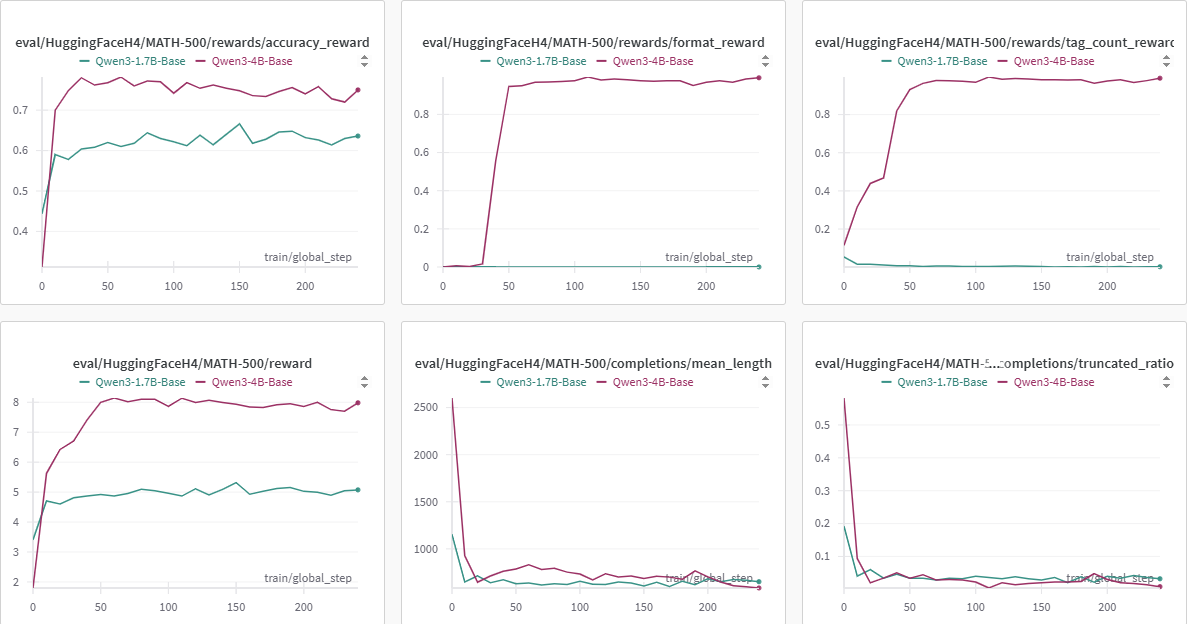
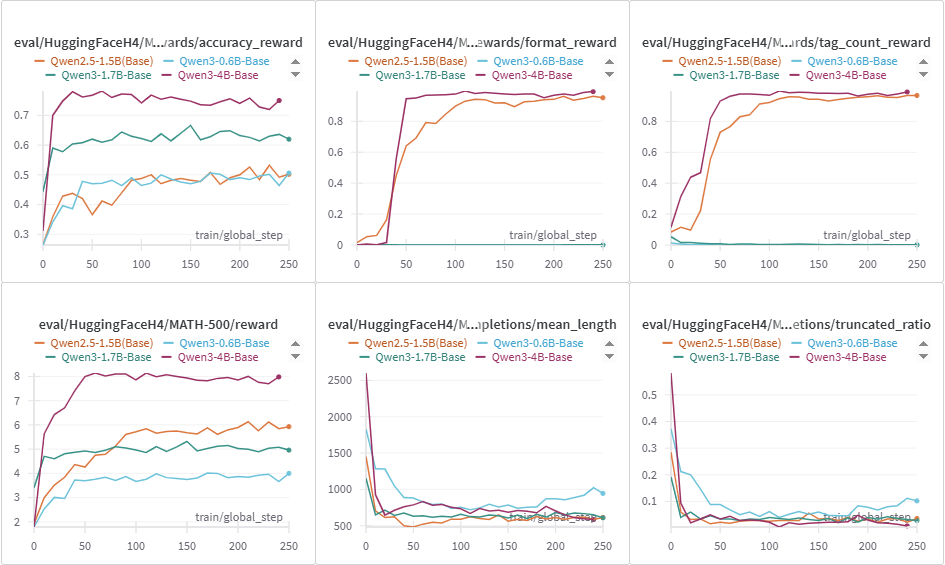
minor updates

diff --git a/README.md b/README.md
@@ -1,7 +1,7 @@
-<h1 align="center"> simpleR1: A simple framework for training R1-like models</h1>
+<h1 align="center"> simpleR1: A simple framework for training R1-like reasoning models</h1>
 
 
-**simpleR1** is a simple framework for training R1-like models, aiming to improve llm's reasoning abilities in math and code. 
+**simpleR1** is a simple framework for training R1-like reasoning models, aiming to improve llm's reasoning abilities. 
 This repository builds upon Hugging Face's TRL GRPO Trainer and the [open-r1](https://github.com/huggingface/open-r1) project, with a focus on ease of use and enhanced training features. 
 
 
@@ -71,9 +71,11 @@ The latest version includes an upgraded GRPO Trainer with a custom evaluate func
 ## 📚 Examples
 
 
-We trained `Qwen/Qwen3-1.7B-Base` and `Qwen/Qwen3-4B-Base` models on [MATH-benchmark](https://huggingface.co/datasets/nlile/hendrycks-MATH-benchmark), with real-time evaluation on [MATH-500](https://huggingface.co/datasets/HuggingFaceH4/MATH-500) using the `evaluate` function.
+We trained `Qwen/Qwen2.5-1.5B` (base model), `Qwen/Qwen3-0.6B-Base`, `Qwen/Qwen3-1.7B-Base`,`Qwen/Qwen3-4B-Base` models on [MATH-benchmark](https://huggingface.co/datasets/nlile/hendrycks-MATH-benchmark), with real-time evaluation on [MATH-500](https://huggingface.co/datasets/HuggingFaceH4/MATH-500) using the `evaluate` function.
 
-Below is the wandb log on evaluation dataset:
+Below is the wandb log on the evaluation dataset:
+> In the log below, we simply set `num_eval_generations=1` (one completion for each problem in the eval dataset), and `num_eval_generations=k` would yield `average@k`/`avg@k` metrics.
+For other metrics, such as `pass@k`, please consider to change the logic in the `evaluate` function.
 
 <p align="center">
   <img src="imgs/wandb_log-qwen3.png" width="800" />
@@ -214,9 +216,6 @@ cd simpleR1
     > Or override additional parameters via command line. 
     > For example,
     > ```bash
-    > model_name_or_path=Qwen/Qwen2.5-1.5B
-    > train_dataset=nlile/hendrycks-MATH-benchmark
-    > eval_dataset=HuggingFaceH4/MATH-500
     > # export HF_HOME=/xxx/xxx/.cache/huggingface
     > export CUDA_VISIBLE_DEVICES=0
     > accelerate launch \
@@ -228,9 +227,9 @@ cd simpleR1
     >     --config configs/grpo_config.yaml \
     >     --output_dir $OUTPUT_DIR \
     >     --check_gpu_idle True \
-    >     --model_name_or_path $model_name_or_path \
-    >     --train_dataset_name $train_dataset \
-    >     --eval_dataset_name $eval_dataset \
+    >     --model_name_or_path Qwen/Qwen2.5-1.5B \
+    >     --train_dataset_name nlile/hendrycks-MATH-benchmark \
+    >     --eval_dataset_name HuggingFaceH4/MATH-500 \
     >     --use_vllm True \
     >     --vllm_mode colocate \
     >     --vllm_gpu_memory_utilization 0.2 \
@@ -239,12 +238,13 @@ cd simpleR1
     >     --num_eval_generations 1 \
     >     --per_device_train_batch_size 7 \
     >     --per_device_eval_batch_size 64 \
+    >     --dynamic_sampling True \
     >     --max_resample_attempts 3 \
-    >     --gradient_accumulation_steps 3 \
+    >     --gradient_accumulation_steps 1 \
     >     --num_iterations 3 \
     >     --torch_empty_cache_steps 1 \
-    >     --max_num_train_samples 2000 \
-    >     --max_num_test_samples -1 \
+    >     --num_train_samples_per_dataset 2000 \
+    >     --num_test_samples_per_dataset -1 \
     >     --max_completion_length 2048 \
     >     --max_eval_completion_length 4096 \
     >     --reward_funcs accuracy format tag \
@@ -258,8 +258,8 @@ cd simpleR1
     >     --top_p 0.95 \
     >     --eval_temperature 0.7 \
     >     --eval_top_p 0.95 \
-    >     --beta 0.0001 \
-    >     --compute_kl True \
+    >     --beta 1e-5 \
+    >     --repetition_penalty 1.02 \
     >     --lr_scheduler_type constant \
     >     --learning_rate 3e-6 \
     >     --save_strategy steps \
@@ -268,7 +268,7 @@ cd simpleR1
     >     --eval_steps 10 \
     >     --eval_on_start True \
     >     --log_level info \
-    >     --wandb_project simpleR1-$(basename $train_dataset) \
+    >     --wandb_project simpleR1-train \
     >     --run_name $model_name_or_path \
     >     2>&1 | tee train.log
     >  ```
@@ -298,7 +298,7 @@ cd simpleR1
     
     Step 2: Start the training pipeline while interacting with the vllm server
 
-    > `vllm_mode = server` is recommended.
+    > Make sure `vllm_mode = server`, which is recommended against `vllm_mode = colocate` mode.
 
     ```bash
     bash scripts/train_grpo_3b.sh
@@ -326,11 +326,11 @@ cd simpleR1
     >     --per_device_train_batch_size 5 \
     >     --per_device_eval_batch_size 64 \
     >     --max_resample_attempts 3 \
-    >     --gradient_accumulation_steps 3 \
+    >     --gradient_accumulation_steps 1 \
     >     --num_iterations 3 \
     >     --torch_empty_cache_steps 1 \
-    >     --max_num_train_samples 2000 \
-    >     --max_num_test_samples -1 \
+    >     --num_train_samples_per_dataset 2000 \
+    >     --num_test_samples_per_dataset -1 \
     >     --max_completion_length 3072 \
     >     --max_eval_completion_length 4096 \
     >     --use_vllm True \
@@ -359,7 +359,7 @@ cd simpleR1
     >     --eval_steps 10 \
     >     --eval_on_start True \
     >     --log_level info \
-    >     --wandb_project simpleR1-$(basename $train_dataset) \
+    >     --wandb_project simpleR1-train \
     >     --run_name $run_name \
     >     2>&1 | tee train.log
     > ```
@@ -374,7 +374,7 @@ cd simpleR1
 
 We can simply reuse the code to evaluate without training the model.
 
-Note: **simpleR1** supports evaluation on multiple datasets.
+Note: **simpleR1** supports training and evaluating on multiple datasets.
 
 
   ```bash
@@ -396,7 +396,7 @@ Note: **simpleR1** supports evaluation on multiple datasets.
   >   --check_gpu_idle False \
   >   --model_name_or_path $model_name_or_path \
   >   --eval_dataset_name HuggingFaceH4/MATH-500 openai/gsm8k opencompass/AIME2025 \
-  >   --num_eval_generations 2 \
+  >   --num_eval_generations 16 \
   >   --per_device_eval_batch_size 128 \
   >   --max_eval_completion_length 4096 \
   >   --use_vllm True \
@@ -444,7 +444,7 @@ pip install wandb==0.20.1
 
 ## TODOs
 - LoRA is not supported yet.
-- The current implementation of resample is not efficient.
+- The current implementation of resample is not that efficient.
 
 ## Contributing
 
@@ -455,4 +455,19 @@ Contributions are welcome! Feel free to open issues, suggest improvements, or su
 ## Acknowledgements
 
 Special thanks to the [Open-R1 project](https://github.com/huggingface/open-r1) by Hugging Face and the broader open-source AI community for their foundational work.
+
+## Citation
+
+If you find this project is useful for your work, please consider to leave a star ⭐ for this repo and cite it as follows:
+
+
+
+```
+@misc{zhang2025simpler1,
+      title={{simpleR1: A simple framework for training R1-like reasoning models}}, 
+      author={{Yafei Zhang}},
+      year={2025},
+      url={https://github.com/yflyzhang/simpleR1}, 
+}
+```
 
